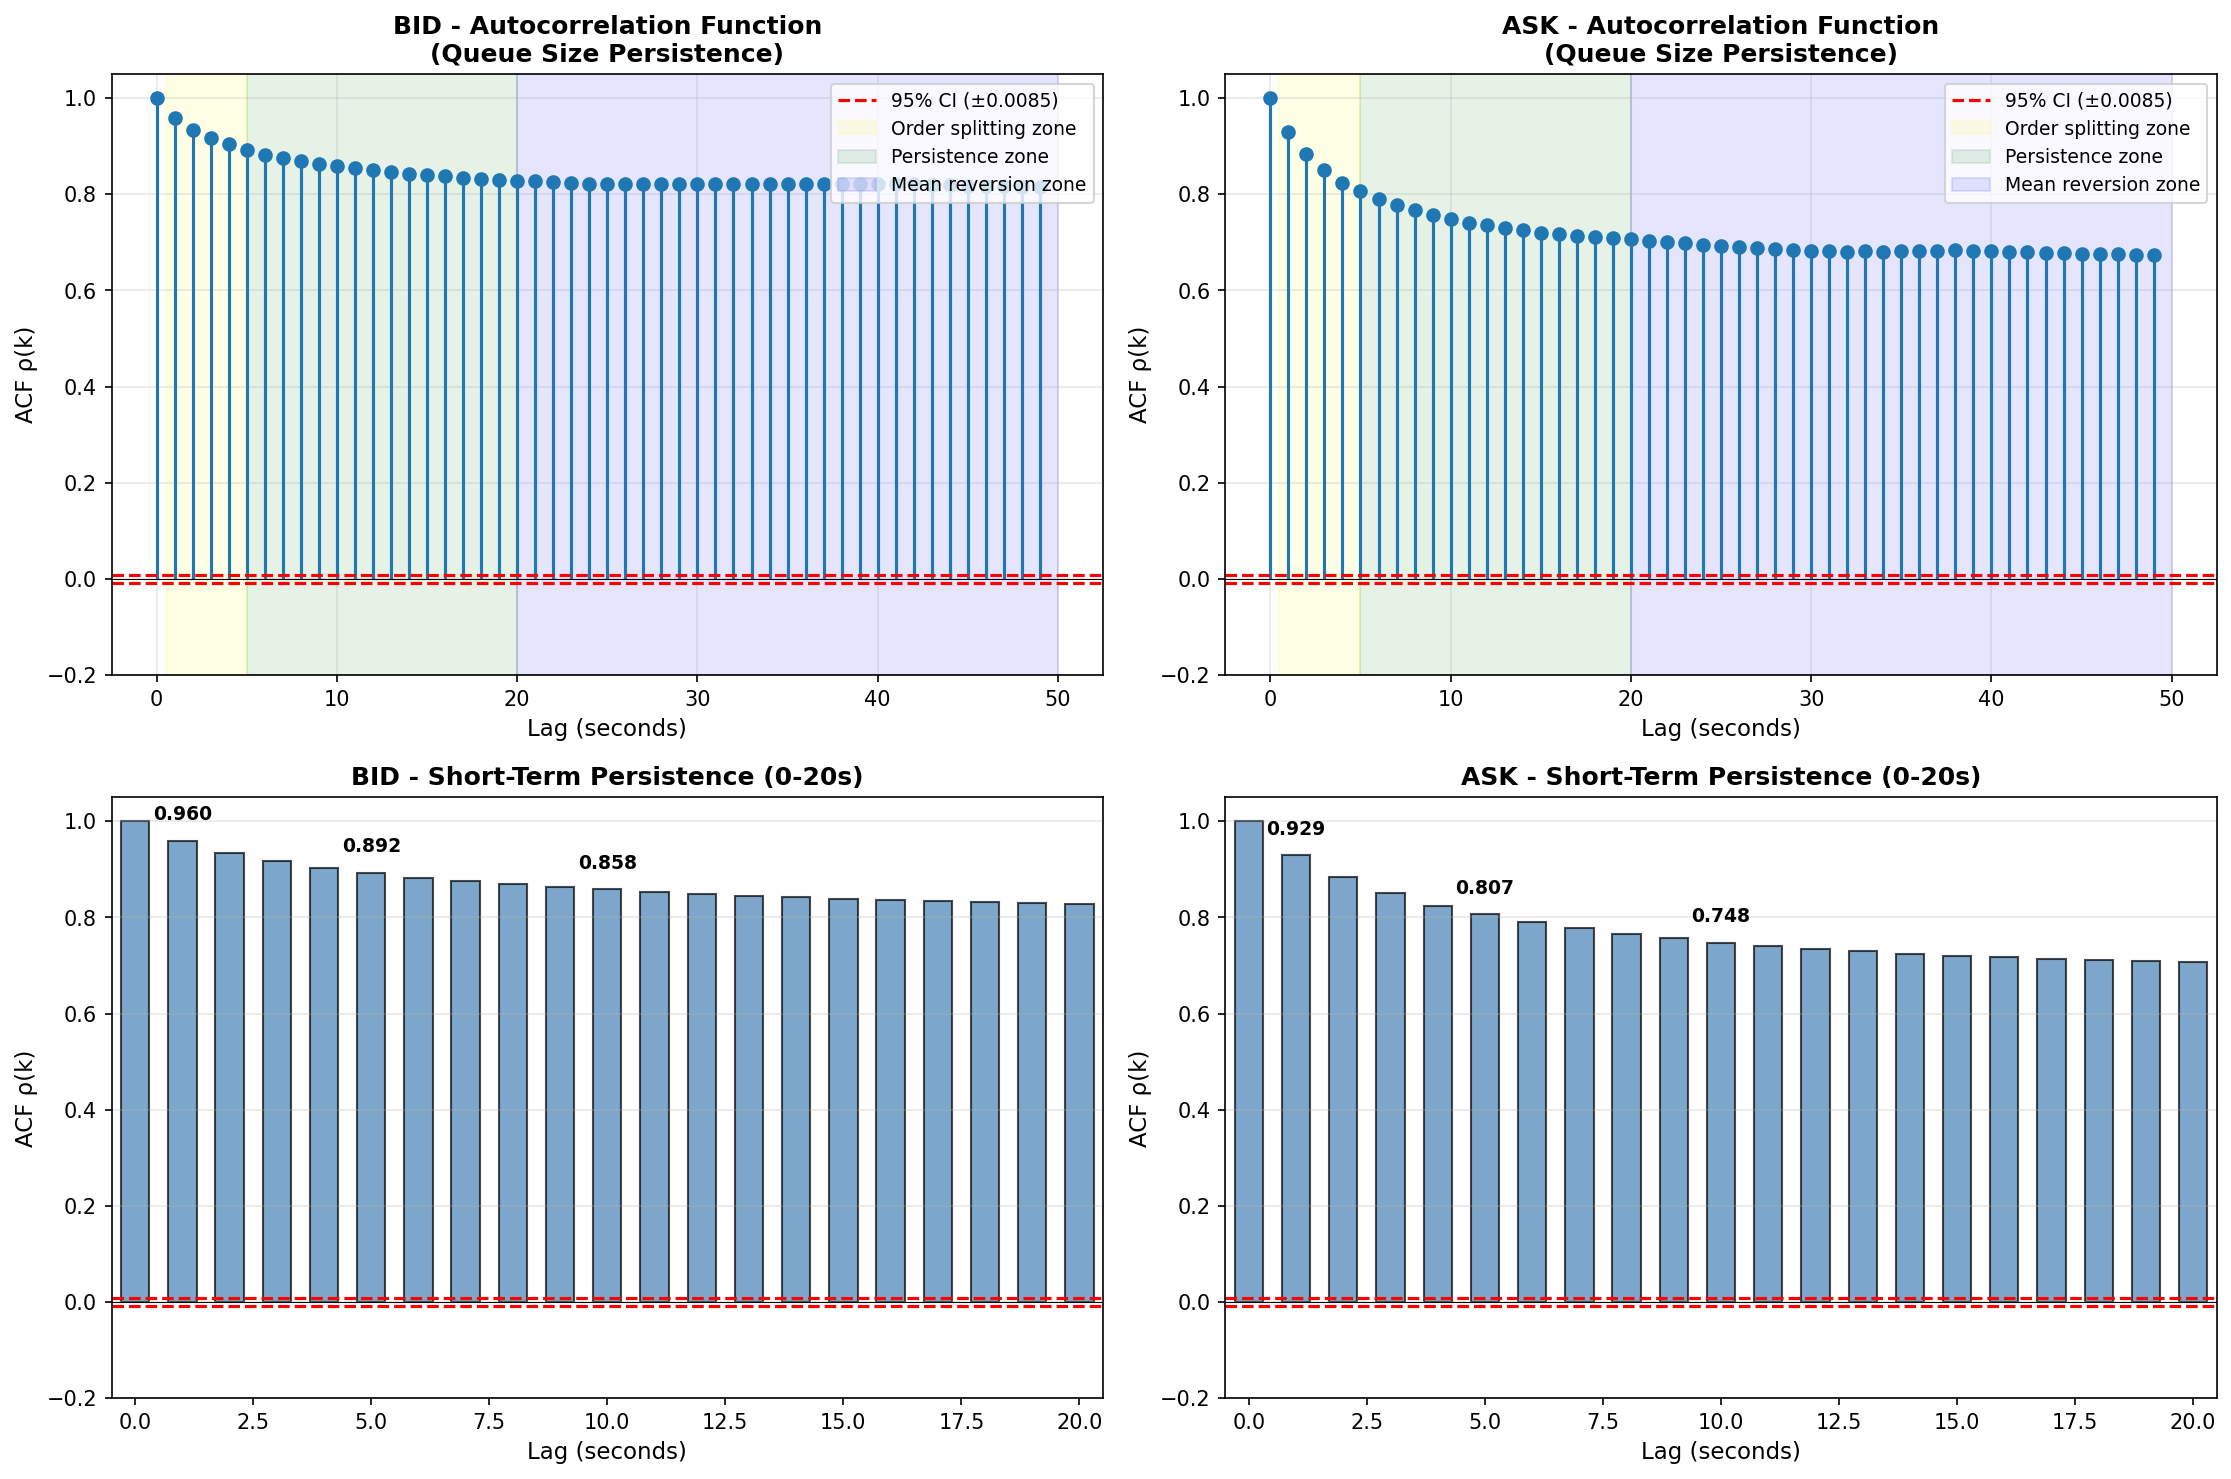
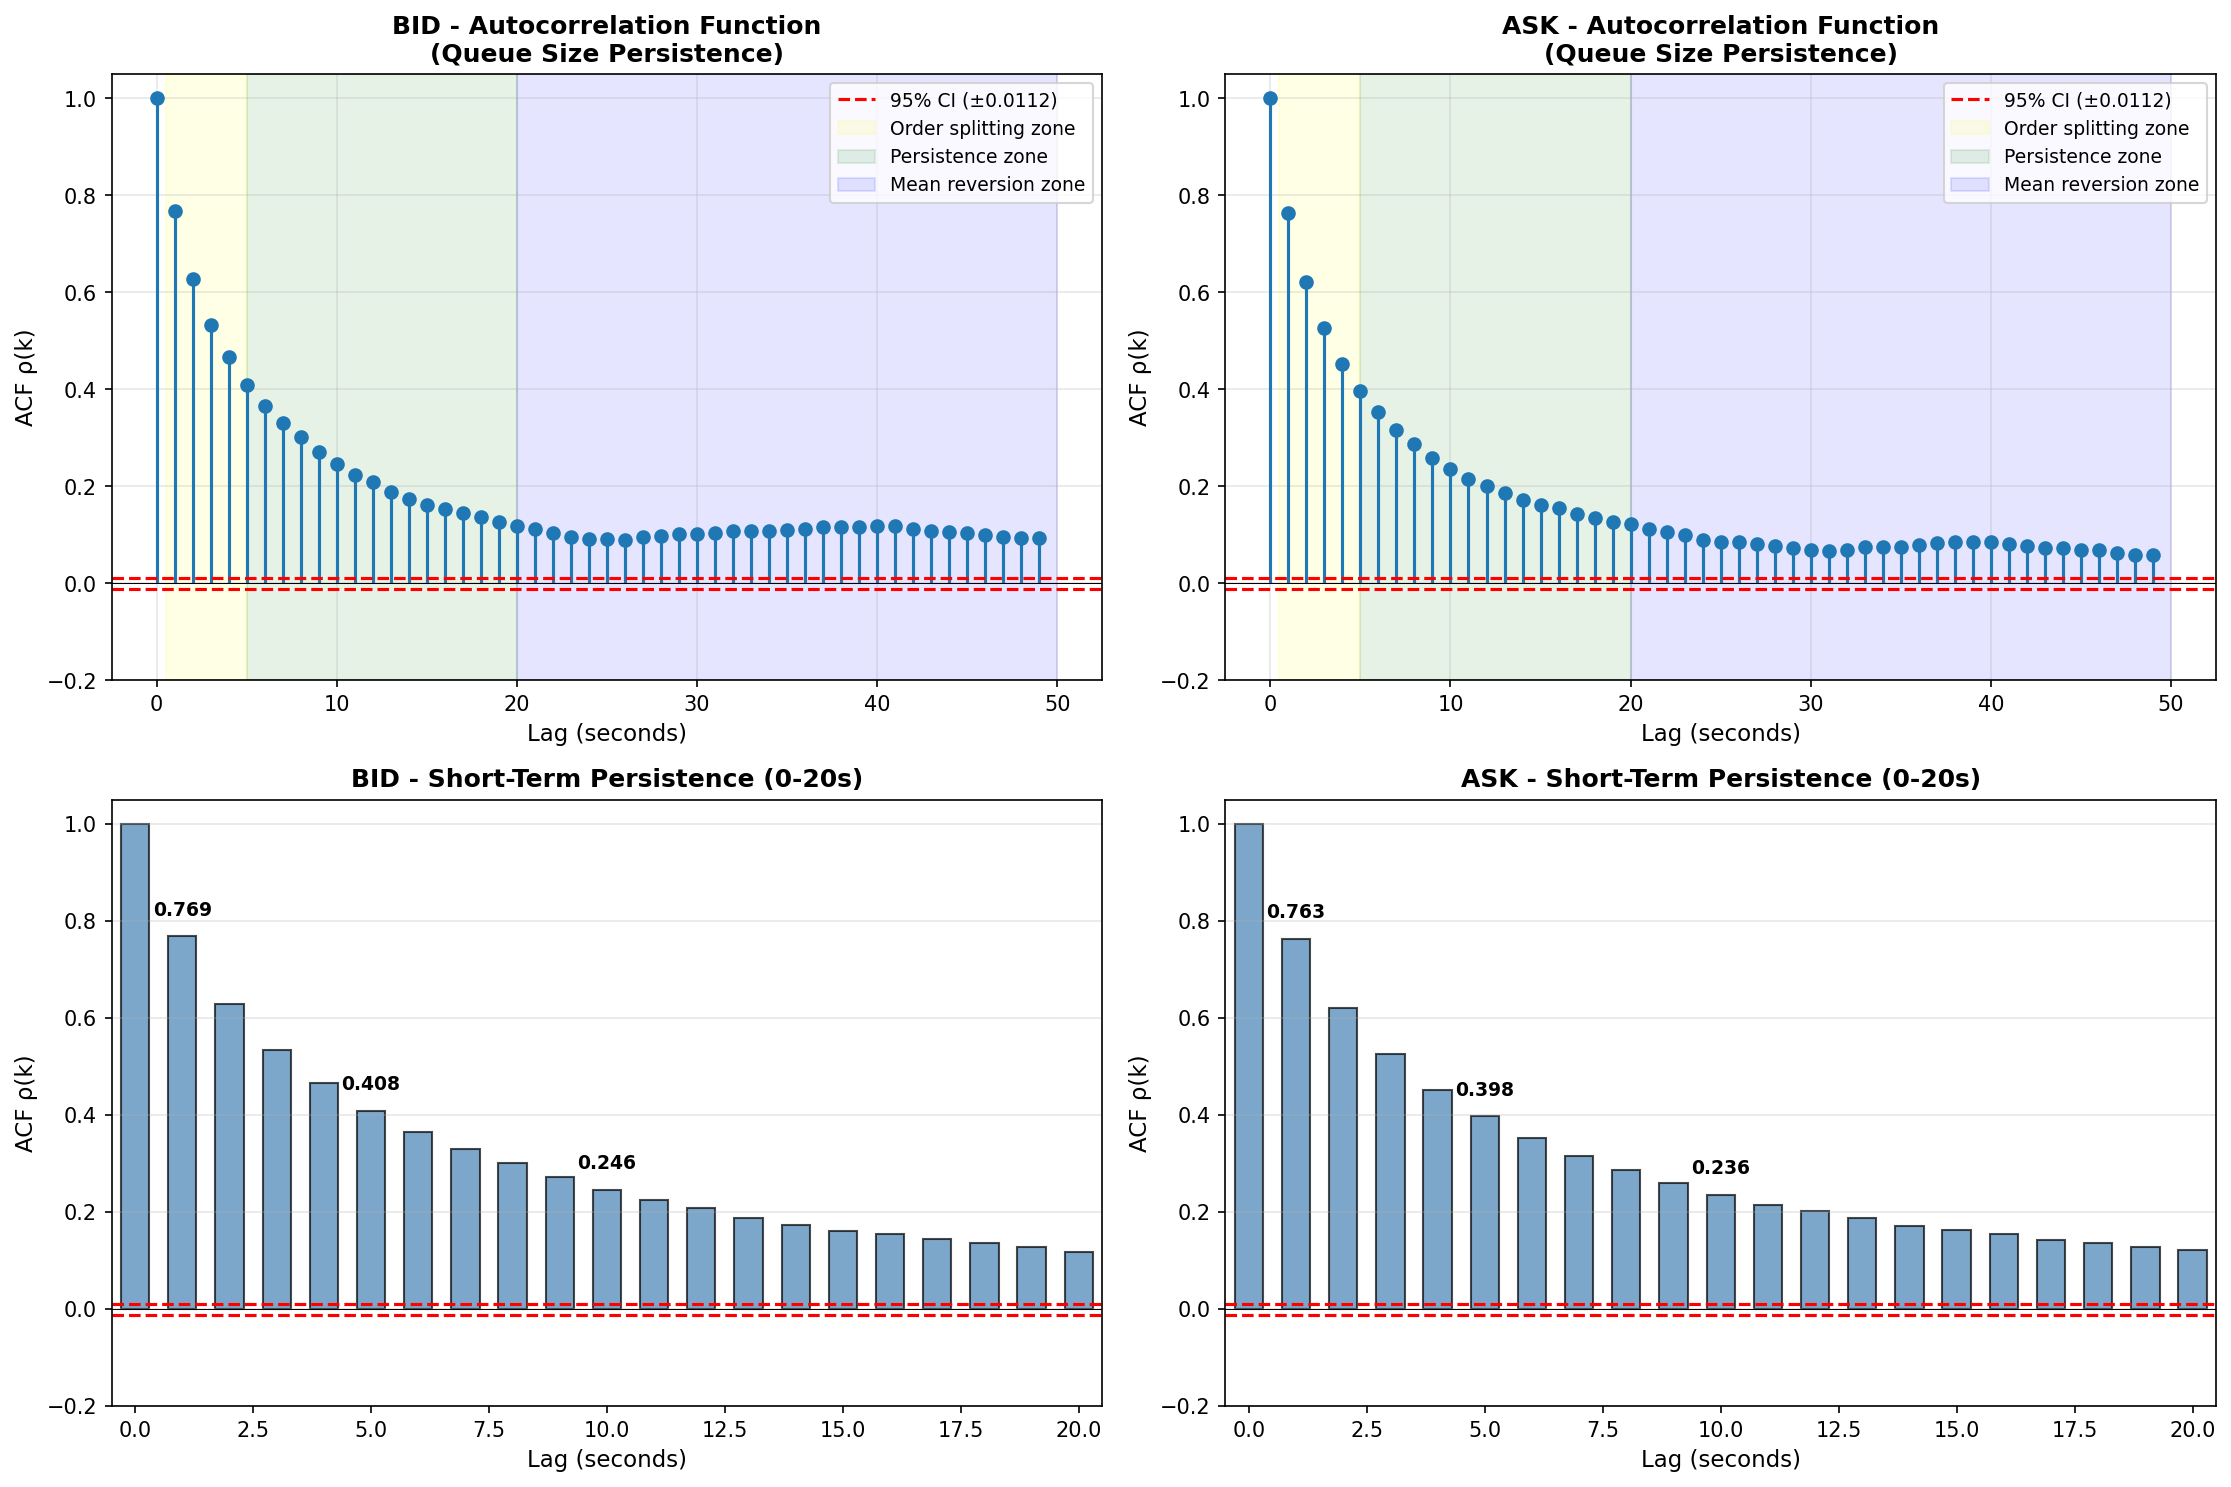
Update gamma distribution analysis scripts and results

diff --git a/gamma_distribution_analysis/scripts/run_garcin_brouty.py b/gamma_distribution_analysis/scripts/run_garcin_brouty.py
@@ -8,18 +8,13 @@ using information-theoretic measures from Garcin-Brouty paper.
 """
 
 import numpy as np
+import pandas as pd
 from pathlib import Path
-import sys
 
 SCRIPT_DIR = Path(__file__).resolve().parent
 ANALYSIS_ROOT = SCRIPT_DIR.parent
 PROJECT_ROOT = ANALYSIS_ROOT.parent
 RESULTS_DIR = ANALYSIS_ROOT / "results"
-
-sys.path.insert(0, str(PROJECT_ROOT / "orderbook_construction"))
-
-from lob_sample_construction import LOBSampleConstructor
-from orderbook import iter_orderupdate_file
 
 # Import analysis module
 from garcin_brouty_method import (
@@ -29,34 +24,30 @@ from garcin_brouty_method import (
 )
 
 # Configuration
-ORDERBOOK_FILE = "/Users/charles/Documents/Tâches/Mathématiques/EA/EA_recherche/euronextparis/EuronextParis/EuronextParis_20191001_FR0000120578/FR0000120578/OrderUpdate_20191001_FR0000120578.csv"
+SNAPSHOT_FILE = PROJECT_ROOT / "sanofi_book_snapshots_1s.parquet"
 
-MAX_DEPTH = 1  # K=1 (best bid/ask)
-TIME_STEP = 1_000_000_000  # 1 second
 MAX_L = 20  # Maximum pattern length
 
 
-def construct_lob_samples():
-    """Construct LOB log-volume samples - optimized for speed"""
-    print(f"\n[STEP 1] Constructing LOB log-volume samples (K={MAX_DEPTH}, Δt=1s)...")
-    
-    constructor = LOBSampleConstructor(ORDERBOOK_FILE, max_depth=MAX_DEPTH)
-    
-    print(f"  Scanning data...")
-    min_time_ns = float('inf')
-    max_time_ns = float('-inf')
-    
-    for u in iter_orderupdate_file(ORDERBOOK_FILE):
-        min_time_ns = min(min_time_ns, u.event_time)
-        max_time_ns = max(max_time_ns, u.event_time)
-    
-    timestamps = np.arange(min_time_ns, max_time_ns, TIME_STEP)
-    print(f"  {len(timestamps):,} snapshots generated")
-    
-    # Construct samples
-    print(f"  Constructing samples...")
-    constructor.construct_samples(timestamps)
-    log_volumes_bid, log_volumes_ask = constructor.get_samples()
+def load_log_volumes_from_snapshot(snapshot_path: Path):
+    """Load and construct log-volume samples directly from 1s snapshot parquet."""
+    if not snapshot_path.exists():
+        raise FileNotFoundError(f"Snapshot file not found: {snapshot_path}")
+
+    df = pd.read_parquet(snapshot_path)
+    required_cols = ["bidvolume1", "askvolume1"]
+    missing = [c for c in required_cols if c not in df.columns]
+    if missing:
+        raise ValueError(
+            f"Missing required columns in snapshot parquet: {missing}. "
+            f"Available columns: {list(df.columns)}"
+        )
+
+    bid_vol = pd.to_numeric(df["bidvolume1"], errors="coerce")
+    ask_vol = pd.to_numeric(df["askvolume1"], errors="coerce")
+
+    log_volumes_bid = np.log(bid_vol[bid_vol > 0].to_numpy(dtype=float))
+    log_volumes_ask = np.log(ask_vol[ask_vol > 0].to_numpy(dtype=float))
     
     print(f"  ✓ Samples collected: BID={len(log_volumes_bid):,}, ASK={len(log_volumes_ask):,}")
     
@@ -72,8 +63,10 @@ def main():
     print("Symbolic Representation + Shannon Entropy")
     print("="*72)
     
-    # Step 1: Construct LOB samples
-    bid_volumes, ask_volumes = construct_lob_samples()
+    # Step 1: Load LOB samples
+    print(f"\n[STEP 1] Loading LOB log-volume samples from snapshot parquet...")
+    print(f"  Source: {SNAPSHOT_FILE}")
+    bid_volumes, ask_volumes = load_log_volumes_from_snapshot(SNAPSHOT_FILE)
     
     # Step 2: Perform Garcin-Brouty analysis
     print(f"\n[STEP 2] Computing Garcin-Brouty analysis (max_L={MAX_L})...")

diff --git a/gamma_distribution_analysis/scripts/run_traditional_acf.py b/gamma_distribution_analysis/scripts/run_traditional_acf.py
@@ -4,26 +4,42 @@ Focus: Queue Size Persistence in LOB
 """
 
 import numpy as np
+import pandas as pd
 from pathlib import Path
-import sys
 
 SCRIPT_DIR = Path(__file__).resolve().parent
 ANALYSIS_ROOT = SCRIPT_DIR.parent
 PROJECT_ROOT = ANALYSIS_ROOT.parent
 RESULTS_DIR = ANALYSIS_ROOT / "results"
 
-sys.path.insert(0, str(PROJECT_ROOT / "orderbook_construction"))
-
-from lob_sample_construction import LOBSampleConstructor
 from traditional_acf_analysis import TraditionalACFAnalyzer
-from orderbook import iter_orderupdate_file
 
 
 # Configuration
-ORDERBOOK_FILE = "/Users/charles/Documents/Tâches/Mathématiques/EA/EA_recherche/euronextparis/EuronextParis/EuronextParis_20191001_FR0000120578/FR0000120578/OrderUpdate_20191001_FR0000120578.csv"
+SNAPSHOT_FILE = PROJECT_ROOT / "sanofi_book_snapshots_1s.parquet"
 
-MAX_DEPTH = 1  # K=1 (best bid/ask)
-TIME_STEP = 1_000_000_000  # 1 second
+
+def load_log_volumes_from_snapshot(snapshot_path: Path) -> tuple[np.ndarray, np.ndarray]:
+    """Load and construct log-volume samples directly from 1s snapshot parquet."""
+    if not snapshot_path.exists():
+        raise FileNotFoundError(f"Snapshot file not found: {snapshot_path}")
+
+    df = pd.read_parquet(snapshot_path)
+    required_cols = ["bidvolume1", "askvolume1"]
+    missing = [c for c in required_cols if c not in df.columns]
+    if missing:
+        raise ValueError(
+            f"Missing required columns in snapshot parquet: {missing}. "
+            f"Available columns: {list(df.columns)}"
+        )
+
+    bid_vol = pd.to_numeric(df["bidvolume1"], errors="coerce")
+    ask_vol = pd.to_numeric(df["askvolume1"], errors="coerce")
+
+    log_volumes_bid = np.log(bid_vol[bid_vol > 0].to_numpy(dtype=float))
+    log_volumes_ask = np.log(ask_vol[ask_vol > 0].to_numpy(dtype=float))
+
+    return log_volumes_bid, log_volumes_ask
 
 
 def main():
@@ -34,26 +50,10 @@ def main():
     print("Queue Size Persistence in Limit Order Book")
     print("="*70)
     
-    # [STEP 1] Construct LOB samples
-    print("\n[STEP 1] Constructing LOB log-volume samples...")
-    constructor = LOBSampleConstructor(ORDERBOOK_FILE, max_depth=MAX_DEPTH)
-    
-    # Scan for timestamp range
-    print("  Scanning data...")
-    min_time_ns = float('inf')
-    max_time_ns = float('-inf')
-    
-    for u in iter_orderupdate_file(ORDERBOOK_FILE):
-        min_time_ns = min(min_time_ns, u.event_time)
-        max_time_ns = max(max_time_ns, u.event_time)
-    
-    timestamps = np.arange(min_time_ns, max_time_ns, TIME_STEP)
-    print(f"  {len(timestamps):,} snapshots generated")
-    
-    # Construct samples
-    print(f"  Constructing samples...")
-    constructor.construct_samples(timestamps)
-    log_volumes_bid, log_volumes_ask = constructor.get_samples()
+    # [STEP 1] Load LOB samples from snapshot parquet
+    print("\n[STEP 1] Loading LOB log-volume samples from snapshot parquet...")
+    print(f"  Source: {SNAPSHOT_FILE}")
+    log_volumes_bid, log_volumes_ask = load_log_volumes_from_snapshot(SNAPSHOT_FILE)
     
     print(f"  ✓ Samples collected: BID={len(log_volumes_bid):,}, ASK={len(log_volumes_ask):,}")
     
